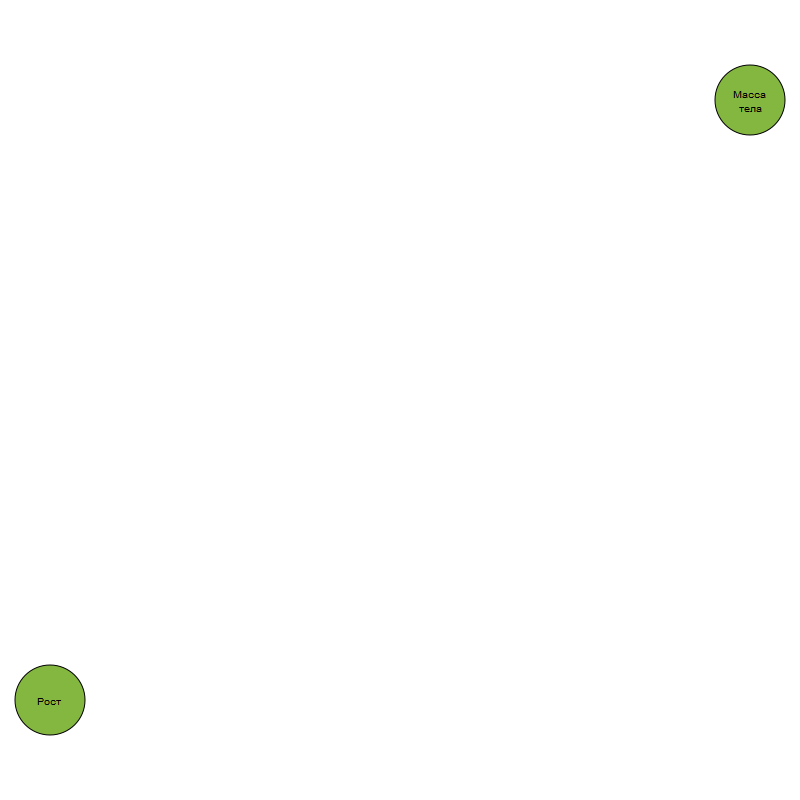
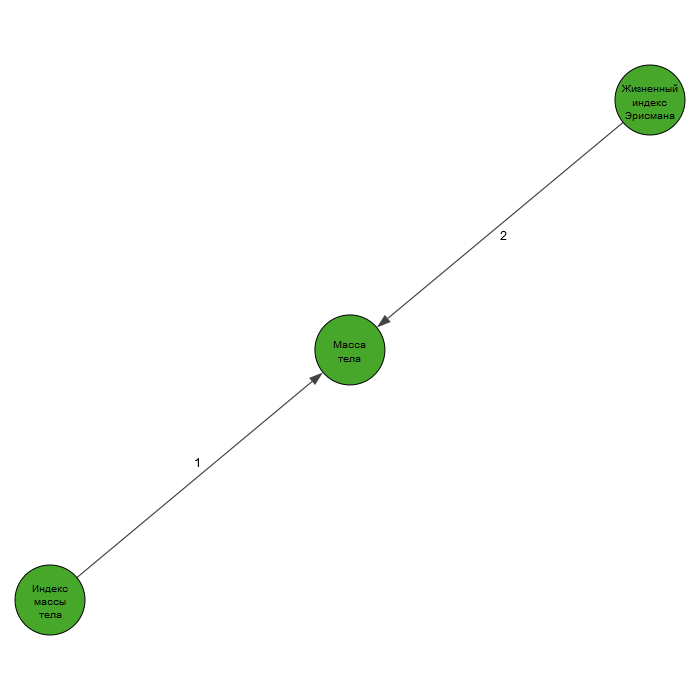
Рабочая версия от 23.05.2021

diff --git a/graph_model_applic.py b/graph_model_applic.py
@@ -13,7 +13,7 @@ from my_graph import my_indicator, my_graph, syst_ind # функция для п
 
 from PIL import Image, ImageQt # библиотека по работе с изображениями PIL (pillow)
 ## Работа с библиотекой PyQt5 для работы интерфейса
-from PyQt5.QtWidgets import QMainWindow, QFileDialog,QApplication, QMessageBox,QVBoxLayout,QTableWidgetItem
+from PyQt5.QtWidgets import QMainWindow, QFileDialog,QApplication, QMessageBox,QVBoxLayout
 from PyQt5.uic import loadUi
 from PyQt5.QtGui import QPixmap, QIcon
 from PyQt5.QtCore import Qt
@@ -32,6 +32,7 @@ class Main(QMainWindow): # класс, где храняться все дейс
                                     use_unicode = True)
         self.cursor = self.conn.cursor()
         self.setWindowIcon(QIcon('icon.png')) # иконка приложения
+        
         # ползунок для просмотра изображения
         lay = QVBoxLayout(self.scrollAreaWidgetContents)
         lay.setContentsMargins(0, 0, 0, 0)
@@ -43,19 +44,17 @@ class Main(QMainWindow): # класс, где храняться все дейс
         self.image = None #изображение (pillow)
         self.photo = None #изображение в виджите (pixmap)
         
-        global click_update
+        global click_update # глобальная переменная
         click_update = 0 # переменная отвечающая за корректное нажатие кнопки и данных
         
         self.pushButton_update.clicked.connect(self.update_ind) # кнопка обновления данных
-        self.checkBox_all_ind.stateChanged.connect(self.change_all)
-        #self.pushButton_del_check_ind.clicked.connect(self.delete_all)
-        self.pushButton_plot_graph.clicked.connect(self.plot_graph)
+        self.checkBox_all_ind.stateChanged.connect(self.change_all) # выбор всех показателей
+        self.pushButton_plot_graph.clicked.connect(self.plot_graph) # кнопка построения графа
         self.ScrollBar_big.valueChanged.connect(self.big) #увелечение изображения 
         self.ScrollBar_small.valueChanged.connect(self.small) #уменьшение изображения
         self.saveas_graph.triggered.connect(self.saveas_file) #сохранить/сохранить как
-        # вывод показателей по оборудованию
-        self.equipment_ind.currentTextChanged.connect(self.activated_equip) 
-        self.equip = []
+        self.equipment_ind.currentTextChanged.connect(self.activated_equip)  # вывод показателей по оборудованию
+        
         # задание значений для выпадающего списка
         # запрос из БД
         rows = self.cursor.execute("SELECT Name_language \
@@ -86,7 +85,7 @@ class Main(QMainWindow): # класс, где храняться все дейс
             col = np.random.sample(3) # рандомное значение от 0 до 1 (палитра RGB)
             self.color_orig.append(col.tolist()) # преобразование в список
             
-        # создание флажков в таблице
+        # создание флажков в таблице с системами
         self.table_systems.setRowCount(len(self.sys_ind)) # изменяем количество строк
         self.table_systems.setColumnCount(1)  # изменяем количество столбцов  
         self.table_systems.setHorizontalHeaderLabels(["Система организма"]) # заголовок столбца
@@ -94,9 +93,8 @@ class Main(QMainWindow): # класс, где храняться все дейс
             item = QtWidgets.QTableWidgetItem() # создаём ячейку
             self.table_systems.setItem(i, 0, item) # обновляем ячейку
             check_box = QtWidgets.QCheckBox(self.sys_ind[i]) # создаём флажок
+            item.setFlags(QtCore.Qt.ItemIsEnabled) # запрещаем редактировать
             self.table_systems.setCellWidget(i, 0, check_box) # добавлем флажок в ячейку
-            #cell = QtWidgets.QTableWidgetItem() # пересоздание ячейки
-            #cell.setFlags(QtCore.Qt.ItemIsEnabled) # запрет на редактирование
         self.table_systems.horizontalHeader().setStretchLastSection(True) # растянуть последний столбец
         
     ## ИЗМЕНЕНИЕ РАЗМЕРА ИЗОБРАЖЕНИЕ
@@ -120,7 +118,8 @@ class Main(QMainWindow): # класс, где храняться все дейс
      
     ## КНОПКА ОБНОВЛЕНИЯ
     def update_ind(self):
-        global click_update
+        global click_update # глобальная
+        # соеденение с базой
         self.conn = MySQLdb.connect('localhost', 'root', 'root',
                                     'biomedical_indicators',
                                     charset = 'utf8', 
@@ -129,35 +128,20 @@ class Main(QMainWindow): # класс, где храняться все дейс
         # положение ползунков масштаба после обновления
         self.ScrollBar_small.setValue(100)
         self.ScrollBar_big.setValue(100)
-        self.equipment_ind.clear()
-        self.sys_check = [] # выбранные флажки
-        # считываение какие флажки выбраны
+        self.equipment_ind.clear() # очистка списка с оборудованием
+        self.sys_check = [] # выбранные флажки систем
+        # считываение какие флажки системы выбраны 
         for i in range(len(self.sys_ind)):
             k = (self.table_systems.cellWidget(i, 0)).isChecked() # состояние флажка
             if k == True: # если выбран
                 self.sys_check.append(i+1) # добавляем в массив
         if len(self.sys_check) != 0: # если выбраны флажки
-            
             click_update = 1
-            
             # данные, которые получены из функции my_graph:
-            # количество показателей, подписи вершин, цвет вершин, список рёбер
-            #self.n, self.vertices_label, self.color_vs, self.edges_graph = my_graph(self.sys_check,self.cursor)
+            # количество показателей, подписи вершин
             self.n, self.vertices_label = my_indicator(self.sys_check,self.cursor)
             self.origin_vs = self.vertices_label.copy() # копия исходнных данных
-            
-            # задание цвета для показателей
-            '''
-            for j in range(len(self.sys_check)):
-                for i in range(self.n):
-                    row_ind_sys = self.cursor.execute("SELECT idSystem \
-                                     FROM basic_name_indicator \
-                                     WHERE Latin_name = '%s'" \
-                                     % self.origin_vs[i])
-                    row_ind_sys = self.cursor.fetchall()
-                    if self.sys_check[j] == row_ind_sys[0][0]: # если показатель есть
-                        self.color_vs[i] = self.color_orig[self.sys_check[j]-1] # задаём цвет
-            '''
+
             self.check = self.checkBox_abbrev.isChecked() # значение флажка включения аббревиатуры
             self.lang = self.language_indicator.currentText() # значение языка из выпадающего списка
         
@@ -269,17 +253,16 @@ class Main(QMainWindow): # класс, где храняться все дейс
                 self.table_ind.setColumnCount(self.m+1)  # изменяем количество столбцов
                 text = ["Выбрать", "Показатель","Расшифровка","Аббревиатура"] # подписи столцов
                 for i in range(self.n):
-                    # вставка флажков в таблицк
-                    item_fl = QTableWidgetItem() # создаём ячейку
-                    self.table_ind.setItem(i, 0, item_fl) # обновляем ячейку
+                    # вставка флажков в таблицу для выбора показателя
+                    item_fl = QtWidgets.QTableWidgetItem() # создаём ячейку
                     check_box_fl = QtWidgets.QCheckBox() # создаём флажок
                     # центрируем флажок
                     check_box_fl.setStyleSheet("margin-left:50%; margin-right:50%;")
+                    item_fl.setFlags(QtCore.Qt.ItemIsEnabled) # запрещаем редактировать
                     self.table_ind.setCellWidget(i, 0, check_box_fl) # добавлем флажок в ячейку
                     
-                    
                     name1 = self.origin_vs[i] # базовое имя показателя
-                    new_item_1 = QTableWidgetItem(name1) # ячейка
+                    new_item_1 = QtWidgets.QTableWidgetItem(name1) # ячейка
                     new_item_1.setFlags(QtCore.Qt.ItemIsEnabled) #запрещаем редактировать   
                     self.table_ind.setItem(i, 1, new_item_1) # добавляем в первый столбец
                     if self.m >= 2: # для вывод доп.имён
@@ -291,7 +274,7 @@ class Main(QMainWindow): # класс, где храняться все дейс
                             name2 = self.new_vertices_label[i] # доп.имя
                             if name1 == name2: # если есть совпадения
                                 name2 = "" # делаем ячейку пустой
-                        new_item_2 = QTableWidgetItem(name2) # ячейка
+                        new_item_2 = QtWidgets.QTableWidgetItem(name2) # ячейка
                         new_item_2.setFlags(QtCore.Qt.ItemIsEnabled) # запрещаем редактировать 
                         # добавляем во второй столбец
                         self.table_ind.setItem(i, 2, new_item_2)  
@@ -300,7 +283,7 @@ class Main(QMainWindow): # класс, где храняться все дейс
                             name3 = self.new_vertices_label_sh[i] # находим аббревиатуру
                             if name1 == name3: # совпадющие
                                 name3 = "" # пустые
-                            new_item_3 = QTableWidgetItem(name3) # ячейка
+                            new_item_3 = QtWidgets.QTableWidgetItem(name3) # ячейка
                             new_item_3.setFlags(QtCore.Qt.ItemIsEnabled) #запрещаем редактировать 
                             # добавлем в 3 столбцец
                             self.table_ind.setItem(i, 3, new_item_3)
@@ -318,44 +301,6 @@ class Main(QMainWindow): # класс, где храняться все дейс
                     self.table_ind.setHorizontalHeaderLabels(text[:])
             else: # если количество столбцов равно m = 0
                 self.table_ind.setRowCount(0)
-            
-            '''
-            self.output_vs = self.vertices_label.copy() # для вывода имён на графе
-            # перенос имён по разделителю для удобного вывода
-            for i in range(len(self.output_vs)):
-                text_label = self.output_vs[i]
-                self.output_vs[i] = text_label.replace(" ", "\n") # разделитель пробел
-            for i in range(len(self.output_vs)):
-                text_label = self.output_vs[i]
-                self.output_vs[i] = text_label.replace("-", "\n") # разделитель дефис
-            self.g.vs["label"] = self.output_vs # подписи вершин
-            self.g.vs["color"] = self.color_vs # цвета вершин
-            self.g.vs["size"] = 70 # размер вершин
-            self.g.vs["label_size"] = 10 # размер подписи
-            self.g.add_edges(self.edges_graph) # добавление рёбер
-            self.g.es["width"] = 1.2 # ширина ребра
-            # нумерация рёбер
-            self.g.es["weight"] = [i+1 for i in range(len(self.edges_graph))]
-            self.g.es["label"] = self.g.es["weight"]
-            # стиль отображения графа
-            self.layout = self.g.layout_fruchterman_reingold()
-            
-            if len(self.sys_check) < round(len(self.sys_ind)/3):
-                self.bbox = (1050,1050)
-            elif round(len(self.sys_ind)/3) <= len(self.sys_check) <= round(len(self.sys_ind)*2/3):
-                self.bbox = (1850,1850)
-            else:
-                self.bbox = (2250,2250)
-                
-            # построение графа
-            igraph.plot(self.g, "test_indic.png", layout = self.layout, 
-                        bbox = self.bbox, margin = (45, 90, 45, 90))
-            # вывод изображения с графом
-            self.filename = os.path.abspath("test_indic.png")
-            self.image = Image.open(self.filename) # открыть как изображение
-            self.photo = QPixmap(ImageQt.toqpixmap(self.image))
-            self.img.setPixmap(self.photo) #вывести изображение
-            '''
             #click_update = 0
         else: # не выбран ни одни флажок
             click_update = 0
@@ -376,29 +321,30 @@ class Main(QMainWindow): # класс, где храняться все дейс
             self.equipment_ind.clear()
         #print(click_update)
         
+    # ПОСТРОЕНИЕ ГРАФА    
     def plot_graph(self):
         global click_update
-        if click_update == 1:
-            QMessageBox.information(self, 'Сообщение', "ОК")
-            is_check_ind = []
-            latin_name_ch = []
+        if click_update == 1: # если данные обновлены
+            #QMessageBox.information(self, 'Сообщение', "ОК")
+            is_check_ind = [] # индексы выбранных показателей
+            latin_name_ch = [] # базовые имена выбранных показателей
             for i in range(self.n):
                 k = (self.table_ind.cellWidget(i, 0)).isChecked() # состояние флажка
-                if k == 1:
-                    is_check_ind.append(i)
-                    latin_name_ch.append(self.table_ind.item(i, 1).text())
-            if len(latin_name_ch) == 0:
+                if k == 1: # если выбран
+                    is_check_ind.append(i) # добавляем инднкс
+                    latin_name_ch.append(self.table_ind.item(i, 1).text()) # добавляем базовое имя
+            if len(latin_name_ch) == 0: # не выбран ни один флажок
                 QMessageBox.information(self, 'Сообщение', "Вы не выбрали ни одного показателя.\nВеберете хотя бы один")
             else:
+                # подключение к БД
                 self.conn = MySQLdb.connect('localhost', 'root', 'root',
                             'biomedical_indicators',
                             charset = 'utf8', 
                             use_unicode = True)
                 self.cursor = self.conn.cursor()
+                # количество показателей, список вершин, цвет вершин, список рёбер
                 n_ind, vertices_label_ind, color_vs, edges_graph = my_graph(latin_name_ch,self.cursor)
-                #vertices_label_graph = 
                 # задание цвета для показателей
-                
                 for j in range(len(self.sys_check)):
                     for i in range(n_ind):
                         row_ind_sys = self.cursor.execute("SELECT idSystem \
@@ -408,89 +354,72 @@ class Main(QMainWindow): # класс, где храняться все дейс
                         row_ind_sys = self.cursor.fetchall()
                         if self.sys_check[j] == row_ind_sys[0][0]: # если показатель есть
                             color_vs[i] = self.color_orig[self.sys_check[j]-1] # задаём цвет
+                # подписи к вершинам в соотвествии с фильтрами            
                 vertices_label_graph = [0 for i in range(len(vertices_label_ind))]
                 vertices_label_graph[n_ind:] = vertices_label_ind[n_ind:]
-                if self.lang != "Латинские названия":
-                    if self.check == False:
+                if self.lang != "Латинские названия": # нелатинское название
+                    if self.check == False: # без аббревиатуры
                         vertices_label_graph[:n_ind] = [self.new_vertices_label[i] for i in is_check_ind]
-                    else:
+                    else: # с аббревиатурой
                         vertices_label_graph[:n_ind] = [self.new_vertices_label_sh[i] for i in is_check_ind] 
-                else:
-                    if self.check == False:
+                else: # латинское название
+                    if self.check == False: # без аббревиатуры
                         vertices_label_graph = vertices_label_ind.copy()
-                    else:
+                    else: # с аббревиатурой
                         vertices_label_graph[:n_ind] = [self.ver_short_latin[i] for i in is_check_ind]
                 
-                
-                
+                ### ПОСТРОЕНИЕ графа
                 self.g = igraph.Graph(directed = True) # создание направленного графа
                 self.g.add_vertices(len(vertices_label_ind)) # количество вершин
-                self.output_vs = vertices_label_graph.copy() # для вывода имён на графе
+                output_vs = vertices_label_graph.copy() # для вывода имён на графе
                 # перенос имён по разделителю для удобного вывода
-                for i in range(len(self.output_vs)):
-                    text_label = self.output_vs[i]
-                    self.output_vs[i] = text_label.replace(" ", "\n") # разделитель пробел
-                for i in range(len(self.output_vs)):
-                    text_label = self.output_vs[i]
-                    self.output_vs[i] = text_label.replace("-", "\n") # разделитель дефис
-                self.g.vs["label"] = self.output_vs # подписи вершин
+                for i in range(len(output_vs)):
+                    text_label = output_vs[i]
+                    output_vs[i] = text_label.replace(" ", "\n") # разделитель пробел
+                for i in range(len(output_vs)):
+                    text_label = output_vs[i]
+                    output_vs[i] = text_label.replace("-", "\n") # разделитель дефис
+                    
+                self.g.vs["label"] = output_vs # подписи вершин
                 self.g.vs["color"] = color_vs # цвета вершин
                 self.g.vs["size"] = 70 # размер вершин
                 self.g.vs["label_size"] = 10 # размер подписи
                 self.g.add_edges(edges_graph) # добавление рёбер
                 self.g.es["width"] = 1.2 # ширина ребра
                 # нумерация рёбер
-                #self.g.es["weight"] = [i+1 for i in range(len(self.edges_graph))]
-                #self.g.es["label"] = self.g.es["weight"]
+                self.g.es["weight"] = [i+1 for i in range(len(edges_graph))]
+                self.g.es["label"] = self.g.es["weight"]
+                
+                # размер изображения
+                b = int(self.spinBox_bbox_graph.value())
+                bbox = (b,b)
                 # стиль отображения графа
                 self.layout = self.g.layout_fruchterman_reingold()
+                
                 # построение графа
                 igraph.plot(self.g, "test_indic.png", layout = self.layout, 
-                            bbox = (800,800), margin = (50, 100, 50, 100))
+                            bbox = bbox, margin = (50, 100, 50, 100))
                 # вывод изображения с графом
                 self.filename = os.path.abspath("test_indic.png")
                 self.image = Image.open(self.filename) # открыть как изображение
                 self.photo = QPixmap(ImageQt.toqpixmap(self.image))
                 self.img.setPixmap(self.photo) #вывести изображение
-            
-                #click_update = 0
-                #print(vertices_label_ind)
-                #print(edges_graph)
-            #print(latin_name_ch)       
-            #print(is_check_ind)  
         else:
-            QMessageBox.information(self, 'Сообщение', "НЕ ОК")
-    '''    
-    def indic(self):
-        self.al = 0
-        for i in range(self.n):
-                k = (self.table_ind.cellWidget(i, 0)).isChecked()
-                if k == 1:
-                    self.al += 1
-        if self.checkBox_all_ind.isChecked() == True and self.al != self.n:
-            self.checkBox_all_ind.setChecked(False)
-    '''   
+            QMessageBox.information(self, 'Сообщение', "Вы не обновили данные")
+
+    # выбор всех показателей
     def change_all(self, state):
-        if click_update == 1:
-            
+        if click_update == 1: # если показтели выведены
             for i in range(self.n):
-                if state == Qt.Checked:
+                if state == Qt.Checked: # выбран, то все флажки показателей выбраны
                     self.table_ind.cellWidget(i, 0).setChecked(True)
-                else:
+                else: # снят - сняты все флажки
                     self.table_ind.cellWidget(i, 0).setChecked(False)
         else:
             self.checkBox_all_ind.setChecked(False)
             QMessageBox.information(self, 'Сообщение', "Ещё не введены данные")
             
-    def delete_all(self):
-        if click_update == 1:
-            self.checkBox_all_ind.setChecked(False)
-            for i in range(self.n):
-                self.table_ind.cellWidget(i, 0).setChecked(False)
-        else:
-            #self.checkBox_all_ind.setChecked(False)
-            QMessageBox.information(self, 'Сообщение', "Ещё не введены данные")
-            
+    # просмотр показателей, снятых на оборудовании        
     def activated_equip(self,text):
         if text != '': # не пустой список
             header_ind = ["Показатели", "Доп.имя"] # заголовки таблицы
@@ -513,13 +442,13 @@ class Main(QMainWindow): # класс, где храняться все дейс
             if self.m >= 1:
                 for i in range(len(row_eq_ind)):
                     name_eq_1 = row_eq_ind[i][0] # базовое имя
-                    new_eq_item_1 = QTableWidgetItem(name_eq_1) # ячейка
+                    new_eq_item_1 = QtWidgets.QTableWidgetItem(name_eq_1) # ячейка
                     new_eq_item_1.setFlags(QtCore.Qt.ItemIsEnabled) # запрещаем редактировать
                     self.table_equip_ind.setItem(i, 0, new_eq_item_1) # добавляем в первый столбец
                     if (self.m >= 2) and self.lang != "Латинские названия": # для нелатинских названий
                         # полное доп.название
                         name_eq_2 = self.new_vertices_label[self.origin_vs.index(row_eq_ind[i][0])]
-                        new_eq_item_2 = QTableWidgetItem(name_eq_2) # ячейка
+                        new_eq_item_2 = QtWidgets.QTableWidgetItem(name_eq_2) # ячейка
                         new_eq_item_2.setFlags(QtCore.Qt.ItemIsEnabled) # запрещаем редактировать
                         self.table_equip_ind.setItem(i, 1, new_eq_item_2) # добавляем во 2 столбце
                 #self.table_equip_ind.horizontalHeader().setStretchLastSection(True)
@@ -538,8 +467,6 @@ class Main(QMainWindow): # класс, где храняться все дейс
         self.name = QFileDialog.getSaveFileName(self, 'Сохранить как', '', "*.png")[0]
         self.image.save(self.name) #сохранить под новым именем
         QMessageBox.information(self, 'Сообщение', "Ваше изображение сохранено")
-        
-
         
 #вызов окна 
 if __name__ == '__main__': 
